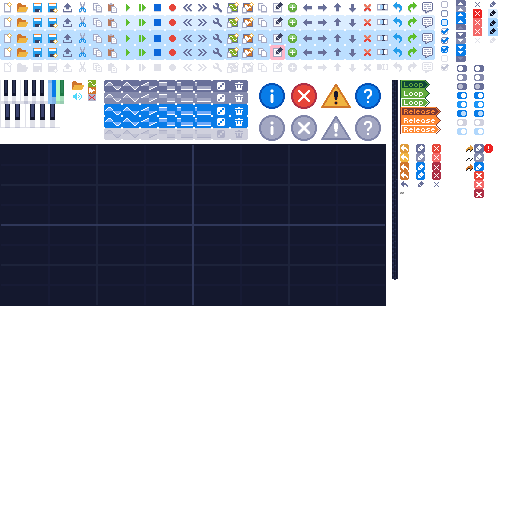
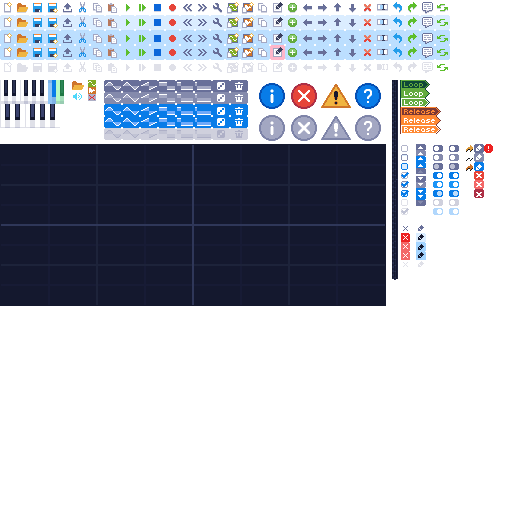
Adds play and loop current pattern

Changed region(s): [[0.7812, 0.0, 1.0, 0.5312]]

diff --git a/Source/Tracker/Playback.cs b/Source/Tracker/Playback.cs
@@ -10,6 +10,7 @@ namespace WaveTracker.Tracker {
         private static int nextPlaybackRow;
         private static bool hasGotoTriggerFlag;
         private static int tickCounter;
+        private static bool loopCurrentPattern;
         public static int TicksPerRowOverride { get; set; }
 
         private static int ticksPerRow;
@@ -26,6 +27,10 @@ namespace WaveTracker.Tracker {
 
             if (App.Shortcuts["General\\Play from cursor"].IsPressedDown) {
                 PlayFromCursor();
+            }
+
+            if (App.Shortcuts["General\\Play and loop pattern"].IsPressedDown) {
+                PlayAndLoopPattern();
             }
 
             if (App.Shortcuts["General\\Stop"].IsPressedDown) {
@@ -89,6 +94,24 @@ namespace WaveTracker.Tracker {
         }
 
         /// <summary>
+        /// Plays from wherever the cursor is in the song
+        /// </summary>
+        public static void PlayAndLoopPattern() {
+            Stop();
+            loopCurrentPattern = true;
+            IsPlaying = true;
+            ChannelManager.Reset();
+            tickCounter = 0;
+            position.Frame = App.PatternEditor.cursorPosition.Frame;
+            position.Row = 0;
+            if (App.PatternEditor.FollowMode && !AudioEngine.IsRendering) {
+                App.PatternEditor.SnapToPlaybackPosition();
+            }
+            Restore();
+            PlayRow();
+        }
+
+        /// <summary>
         /// Plays from the beginning of the current song
         /// </summary>
         public static void PlayFromBeginning() {
@@ -114,14 +137,17 @@ namespace WaveTracker.Tracker {
             foreach (Channel c in ChannelManager.Channels) {
                 c.Cut();
             }
-
+            loopCurrentPattern = false;
             ChannelManager.Reset();
         }
 
         private static void SetTicksPerRow() {
-            ticksPerRow = TicksPerRowOverride == -1
-                ? App.CurrentSong.TicksPerRow[position.Row % App.CurrentSong.TicksPerRow.Length]
-                : TicksPerRowOverride;
+            if (TicksPerRowOverride == -1) {
+                ticksPerRow = App.CurrentSong.TicksPerRow[position.Row % App.CurrentSong.TicksPerRow.Length];
+            }
+            else {
+                ticksPerRow = TicksPerRowOverride;
+            }
         }
 
         public static void Tick() {
@@ -184,7 +210,12 @@ namespace WaveTracker.Tracker {
         }
 
         private static void MoveNextRow() {
-            position.MoveToRow(position.Row + 1, App.CurrentSong);
+            int frameWrap = 0;
+            int currentFrame = position.Frame;
+            position.MoveToRow(position.Row + 1, App.CurrentSong, ref frameWrap);
+            if (loopCurrentPattern && frameWrap != 0) {
+                Goto(currentFrame, 0);
+            }
             if (IsPlaying) {
                 if (App.PatternEditor.FollowMode && !AudioEngine.IsRendering) {
                     App.PatternEditor.SnapToPlaybackPosition();
@@ -219,8 +250,14 @@ namespace WaveTracker.Tracker {
         /// <param name="row"></param>
         public static void GotoNext(int fr, int row) {
             hasGotoTriggerFlag = true;
-            nextPlaybackFrame = fr % App.CurrentSong.FrameSequence.Count;
-            nextPlaybackRow = row % (App.CurrentSong.FrameSequence[nextPlaybackFrame].GetLength() + 1);
+            if (loopCurrentPattern) {
+                nextPlaybackFrame = position.Frame;
+                nextPlaybackRow = 0;
+            }
+            else {
+                nextPlaybackFrame = fr % App.CurrentSong.FrameSequence.Count;
+                nextPlaybackRow = row % (App.CurrentSong.FrameSequence[nextPlaybackFrame].GetLength() + 1);
+            }
         }
 
         public static void Goto(int frame, int row) {

diff --git a/Source/UI/Toolbar.cs b/Source/UI/Toolbar.cs
@@ -18,6 +18,7 @@ namespace WaveTracker.UI {
 
         public SpriteButton playback_play;
         public SpriteButton playback_playFromBeginning;
+        public SpriteButton playback_loopFrame;
         public SpriteButton playback_stop;
         public SpriteToggle playback_record;
 
@@ -71,6 +72,9 @@ namespace WaveTracker.UI {
             px += 15;
             playback_playFromBeginning = new SpriteButton(px, 0, 15, 15, 135, 0, this);
             playback_playFromBeginning.SetTooltip("Play From Beginning", "Play the song from the first frame");
+            px += 15;
+            playback_loopFrame = new SpriteButton(px, 0, 15, 15, 435, 0, this);
+            playback_loopFrame.SetTooltip("Loop current frame", "Play and loop the current frame");
             px += 15;
             playback_stop = new SpriteButton(px, 0, 15, 15, 150, 0, this);
             playback_stop.SetTooltip("Stop", "Stop playing");
@@ -134,6 +138,7 @@ namespace WaveTracker.UI {
 
             if (playback_play.Clicked) { Tracker.Playback.Play(); }
             if (playback_playFromBeginning.Clicked) { Tracker.Playback.PlayFromBeginning(); }
+            if (playback_loopFrame.Clicked) { Tracker.Playback.PlayAndLoopPattern(); }
             if (playback_stop.Clicked) { Tracker.Playback.Stop(); }
             playback_record.Value = App.PatternEditor.EditMode;
             playback_record.Update();
@@ -189,6 +194,7 @@ namespace WaveTracker.UI {
 
             playback_play.Draw();
             playback_playFromBeginning.Draw();
+            playback_loopFrame.Draw();
             playback_stop.Draw();
             playback_record.Draw();
 

diff --git a/Source/UI/NumberBoxDecimal.cs b/Source/UI/NumberBoxDecimal.cs
@@ -38,8 +38,8 @@ namespace WaveTracker.UI {
             height = 13;
             canScroll = true;
             SetParent(parent);
-            bUp = new SpriteButton(width - 10, 0, 10, 6, 456, 0, this);
-            bDown = new SpriteButton(width - 10, 7, 10, 6, 456, 32, this);
+            bUp = new SpriteButton(width - 10, 0, 10, 6, 416, 144, this);
+            bDown = new SpriteButton(width - 10, 7, 10, 6, 416, 176, this);
         }
 
         public NumberBoxDecimal(string label, int x, int y, Element parent, int decimalPlaces = 2) {
@@ -52,8 +52,8 @@ namespace WaveTracker.UI {
             height = 13;
             canScroll = true;
             SetParent(parent);
-            bUp = new SpriteButton(width - 10, 0, 10, 6, 456, 0, this);
-            bDown = new SpriteButton(width - 10, 7, 10, 6, 456, 32, this);
+            bUp = new SpriteButton(width - 10, 0, 10, 6, 416, 144, this);
+            bDown = new SpriteButton(width - 10, 7, 10, 6, 416, 176, this);
         }
 
         public void EnableScrolling() { canScroll = true; }

diff --git a/Source/UI/NumberBox.cs b/Source/UI/NumberBox.cs
@@ -34,8 +34,8 @@ namespace WaveTracker.UI {
             height = 13;
             canScroll = true;
             SetParent(parent);
-            bUp = new SpriteButton(width - 10, 0, 10, 6, 456, 0, this);
-            bDown = new SpriteButton(width - 10, 7, 10, 6, 456, 32, this);
+            bUp = new SpriteButton(width - 10, 0, 10, 6, 416, 144, this);
+            bDown = new SpriteButton(width - 10, 7, 10, 6, 416, 176, this);
         }
 
         public NumberBox(string label, int x, int y, Element parent) {
@@ -48,8 +48,8 @@ namespace WaveTracker.UI {
             height = 13;
             canScroll = true;
             SetParent(parent);
-            bUp = new SpriteButton(width - 10, 0, 10, 6, 456, 0, this);
-            bDown = new SpriteButton(width - 10, 7, 10, 6, 456, 32, this);
+            bUp = new SpriteButton(width - 10, 0, 10, 6, 416, 144, this);
+            bDown = new SpriteButton(width - 10, 7, 10, 6, 416, 176, this);
         }
 
         public void EnableScrolling() { canScroll = true; }

diff --git a/Source/UI/EnvelopeListItem.cs b/Source/UI/EnvelopeListItem.cs
@@ -62,7 +62,7 @@ namespace WaveTracker.UI {
                     if (deleteButton.IsHovered) {
                         DrawRoundedRect(78, 1, 13, 13, new Color(122, 167, 255));
                     }
-                    DrawSprite(82, 5, new Rectangle(472, 48, 5, 5), Color.White);
+                    DrawSprite(82, 5, new Rectangle(400, 272, 5, 5), Color.White);
                 }
                 else {
                     DrawRoundedRect(0, 0, width, height, Color.White);
@@ -72,7 +72,7 @@ namespace WaveTracker.UI {
                         DrawRoundedRect(78, 1, 13, 13, UIColors.panel);
                     }
                     if (IsHovered) {
-                        DrawSprite(82, 5, new Rectangle(472, 48, 5, 5), UIColors.label);
+                        DrawSprite(82, 5, new Rectangle(400, 272, 5, 5), UIColors.label);
                     }
                 }
             }

diff --git a/Source/SettingsProfile.cs b/Source/SettingsProfile.cs
@@ -114,6 +114,7 @@ namespace WaveTracker {
                 {"General\\Decrease octave", new KeyboardShortcut(Keys.OemOpenBrackets) },
                 {"General\\Play/Stop", new KeyboardShortcut(Keys.Enter) },
                 {"General\\Play from beginning", new KeyboardShortcut(Keys.F5) },
+                {"General\\Play and loop pattern", new KeyboardShortcut(Keys.Enter, KeyModifier.Shift) },
                 {"General\\Play from cursor", new KeyboardShortcut(Keys.Enter, KeyModifier.Alt) },
                 {"General\\Play row", new KeyboardShortcut(Keys.Enter, KeyModifier.Ctrl) },
                 {"General\\Stop", new KeyboardShortcut(Keys.F8) },

diff --git a/Source/UI/Window.cs b/Source/UI/Window.cs
@@ -24,7 +24,7 @@ namespace WaveTracker.UI {
 
         public Window(string name, int width, int height, bool hasExitButton = true) : base(name, (App.WindowWidth - width) / 2, (App.WindowHeight - height) / 2, width, height) {
             if (hasExitButton) {
-                ExitButton = new SpriteButton(width - 10, 0, 10, 9, 472, 0, this);
+                ExitButton = new SpriteButton(width - 10, 0, 10, 9, 400, 224, this);
             }
         }
 

diff --git a/Source/UI/ModulePanel.cs b/Source/UI/ModulePanel.cs
@@ -22,7 +22,7 @@ namespace WaveTracker.UI {
             rows = new NumberBox("Frame Length", 167, 26, 132, 40, this);
             rows.SetValueLimits(1, 256);
 
-            editButton = new SpriteButton(296, 0, 10, 9, 488, 0, this);
+            editButton = new SpriteButton(296, 0, 10, 9, 416, 224, this);
             editButton.SetTooltip("Edit module settings", "Open the module settings window");
         }
 

diff --git a/Source/UI/SwitchToggle.cs b/Source/UI/SwitchToggle.cs
@@ -14,7 +14,7 @@ namespace WaveTracker.UI {
         }
 
         private Rectangle GetSpriteBounds(int index) {
-            return new Rectangle(HasContrastOutline ? 473 : 456, 64 + index * 9, 12, 9);
+            return new Rectangle(HasContrastOutline ? 448 : 432, 144 + index * 9, 12, 9);
         }
 
         public void Update() {

diff --git a/Source/UI/Checkbox.cs b/Source/UI/Checkbox.cs
@@ -25,7 +25,7 @@ namespace WaveTracker.UI {
         }
 
         private Rectangle GetBounds(int num) {
-            return new Rectangle(440, num * 9, 9, 9);
+            return new Rectangle(400, 144 + num * 9, 9, 9);
         }
 
         public void DrawAsTabToggle() {

diff --git a/Source/UI/CheckboxLabeled.cs b/Source/UI/CheckboxLabeled.cs
@@ -23,7 +23,7 @@ namespace WaveTracker.UI {
         }
 
         private Rectangle GetBounds(int num) {
-            return new Rectangle(440, num * 9, 9, 9);
+            return new Rectangle(400, 144 + num * 9, 9, 9);
         }
 
         public void Draw() {
